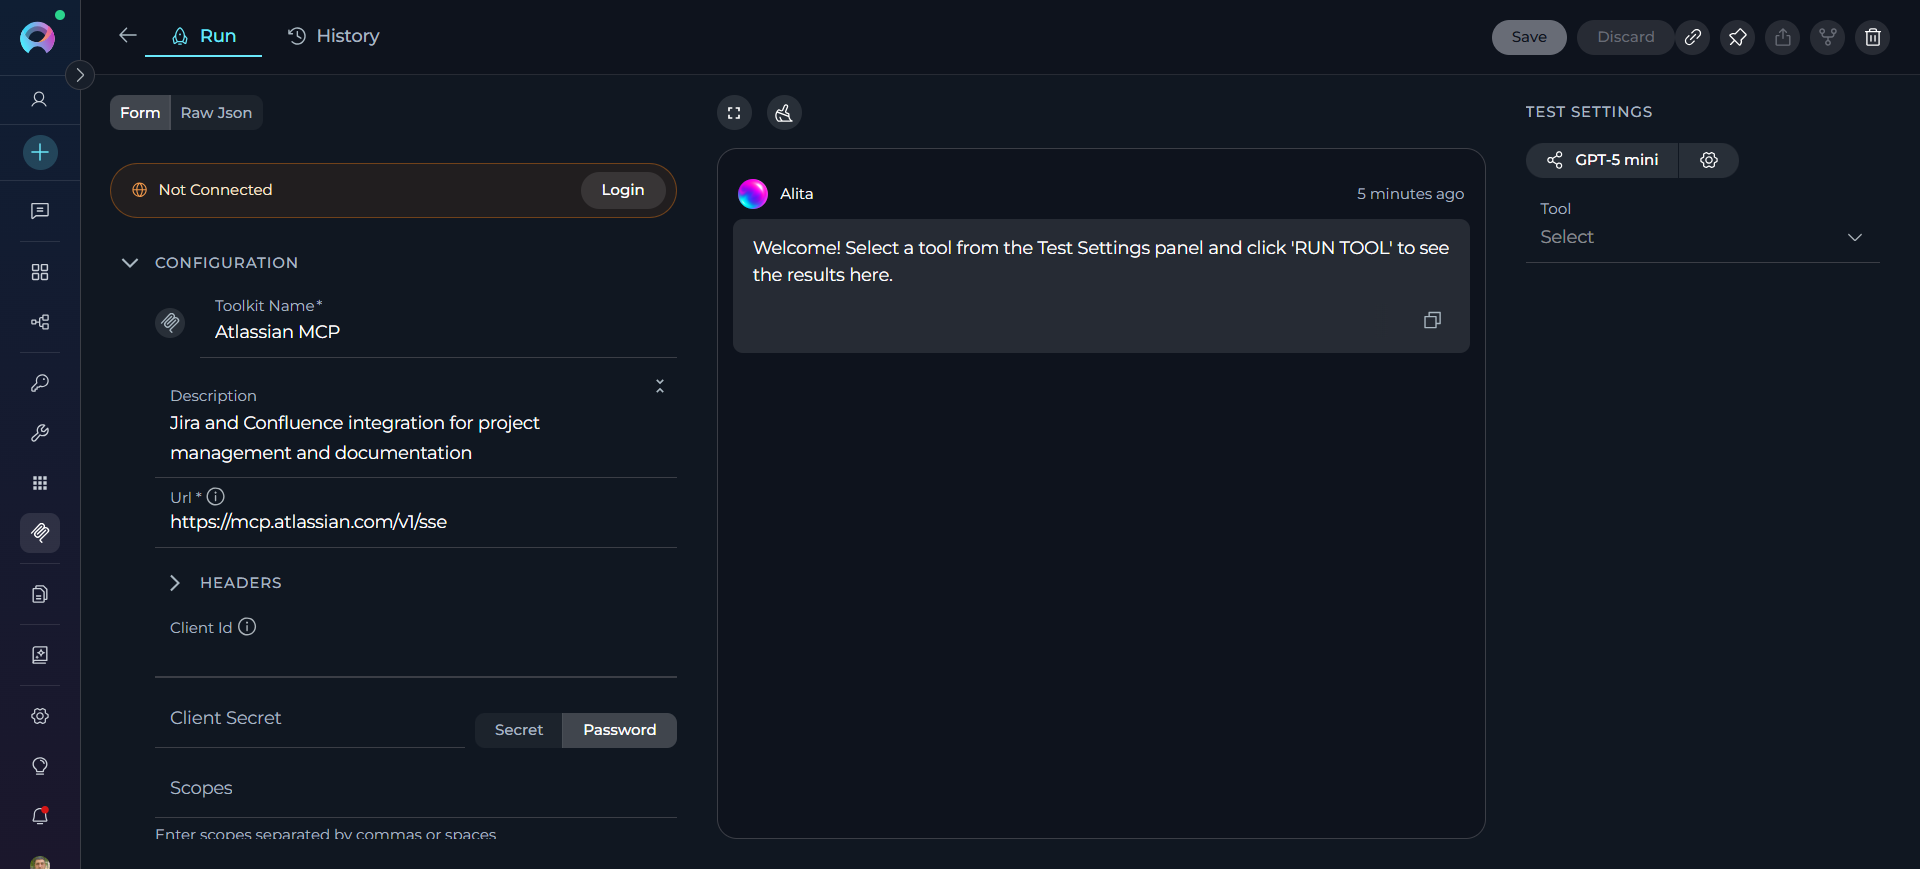
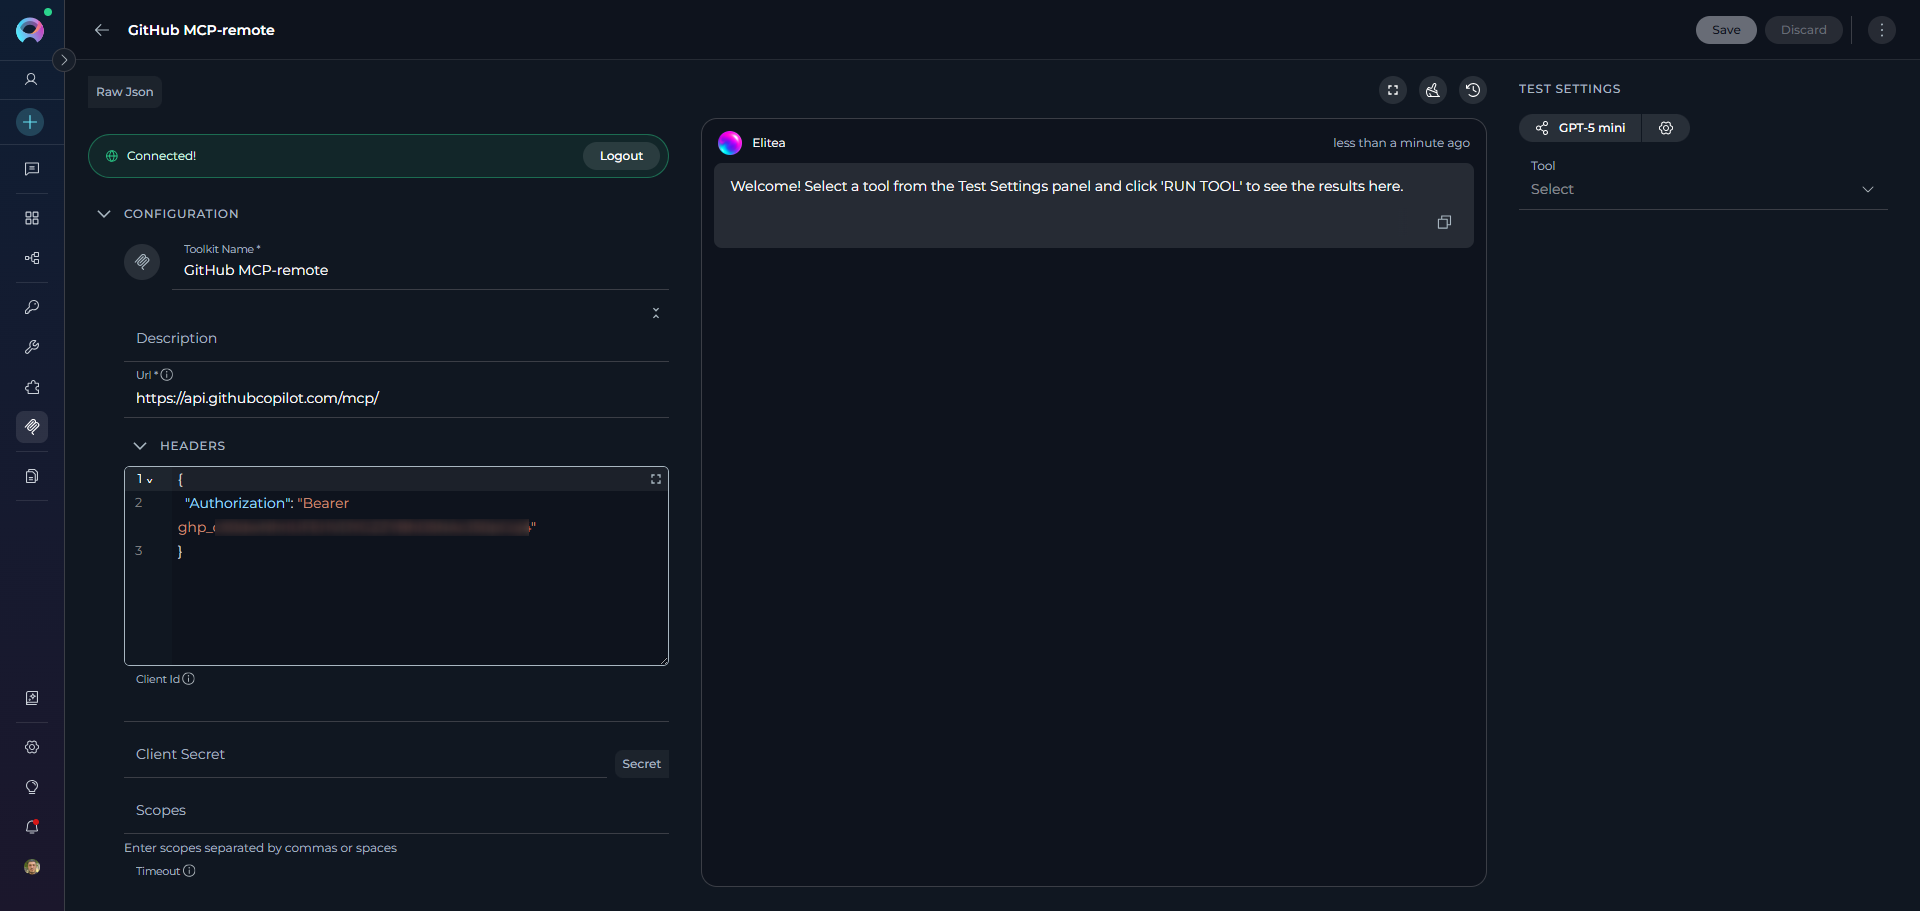
Update MCPs Menu guige

diff --git a/docs/menus/mcps.md b/docs/menus/mcps.md
@@ -62,7 +62,7 @@ Pin frequently used MCPs to keep them at the top of your list for quick access:
 3. Pinned MCPs will appear at the top of the list, separated from unpinned ones
 4. Click the pin icon again to unpin the MCP
 
-![MCP Pin](../img/menus/mcps/mcp-pin.gif){loading=lazy}
+     ![MCP Pin](../img/menus/mcps/mcp-pin.gif){loading=lazy}
 
 
 **MCP Connection States**
@@ -71,11 +71,11 @@ MCPs display their current connection status:
 
 * **Connected** (Grey) - Active connection; tools are available for use
 
-![Connected](../img/menus/mcps/connected.png){width="250"}
+     ![Connected](../img/menus/mcps/connected.png){width="250"}
 
 * **Disconnected** (Orange) - MCP exists but cannot reach server; tools unavailable
 
-![Disconnected](../img/menus/mcps/disconnected.png){width="250"}
+     ![Disconnected](../img/menus/mcps/disconnected.png){width="250"}
 ---
 
 ## MCP Types
@@ -172,15 +172,18 @@ Remote MCPs connect to external MCP servers over HTTP/HTTPS. They are ideal for 
 
 ## Managing MCP Configuration
 
-After creating an MCP, you can view and edit its configuration by clicking on the MCP card in the dashboard. The MCP detail page provides two main tabs for managing different aspects of your MCP:
+After creating an MCP, you can view and edit its configuration by clicking on the MCP card in the dashboard. This opens the **MCP configuration page**.
 
-### Run Tab
+### MCP Configuration Page
 
-The **Run Tab** is where you configure the MCP's connection settings and manage enabled tools.
+The MCP configuration page is where you configure connection settings, manage enabled tools, and test MCP functionality in real-time. It uses a **two-column layout**:
+
+- **Left panel** — the configuration form (name, description, connection settings, tool selection)
+- **Right panel** — the **Test Settings** panel for running tools interactively, with a **View run history** (🕐 clock icon) in the top bar (see [Viewing MCP History](#viewing-mcp-history))
 
 ![MCP Run Tab](../img/menus/mcps/mcp-run-tab.png){loading=lazy}
 
-**What You Can Do on the Run Tab:**
+**What You Can Do on the MCP Configuration Page:**
 
 * **Edit MCP Details:** Update the name and description
 * **Manage Tool Selection:** Configure which specific tools are enabled for this MCP. In the "Tools" section, select only the tools your agents will use. Enabling only necessary tools improves security (principle of least privilege) and optimizes performance
@@ -206,37 +209,44 @@ When selecting tools for your MCP:
 
 #### Testing MCP Functionality
 
-The MCP configuration page includes a **Test Settings** panel on the right side that allows you to test MCP functionality in real-time. For comprehensive testing instructions and best practices, see [How to Test Toolkit Tools](../how-tos/credentials-toolkits/how-to-test-toolkit-tools.md).
+The **right panel** of the MCP configuration page contains the **Test Settings** area, which lets you test MCP functionality in real-time without leaving the page. The top bar of the Test Settings panel includes a **View run history** (🕐 clock icon) — click it to open the Run History panel. See [Viewing MCP History](#viewing-mcp-history) for details.
+
+For comprehensive testing instructions and best practices, see [How to Test Toolkit Tools](../how-tos/credentials-toolkits/how-to-test-toolkit-tools.md).
 
 **Steps to Test an MCP:**
 
-1. **Select a Model:** Choose the LLM model from the model dropdown (e.g., `gpt-4o`).
+1. **Select a Model:** Choose the LLM model from the model dropdown (e.g., `GPT-5.1`).
+
+     ![Select a Model](../img/menus/mcps/mcp-model-select.gif)
 
 2. **Adjust Model Settings** (Optional): Click the **Model Settings** icon (⚙) next to the model selector to fine-tune the response generation. The settings vary depending on the selected model:
-    
+
     **For Reasoning Models** (e.g., GPT-5.1):
-    
-    * **Reasoning** - Controls the depth of logical thinking and problem-solving with three levels:
-        * **Low**: Fast, surface-level reasoning with concise answers and minimal steps
-        * **Medium**: Balanced reasoning with clear explanations and moderate multi-step thinking (default)
-        * **High**: Deep, thorough reasoning with detailed step-by-step analysis (may be slower)
-    
+
+    | Setting | Level | Description |
+    |---------|-------|-------------|
+    | **Reasoning** | Low | Fast, surface-level reasoning with concise answers and minimal steps |
+    | | Medium *(default)* | Balanced reasoning with clear explanations and moderate multi-step thinking |
+    | | High | Deep, thorough reasoning with detailed step-by-step analysis (may be slower) |
+
     **For Standard Models** (e.g., GPT-4o):
-    
-    * **Creativity** - Controls response randomness and creativity. Lower values produce more focused and deterministic outputs, while higher values generate more diverse and creative responses with five levels (1-5):
-        * **1**: Highly focused and deterministic outputs
-        * **2**: Mostly focused with slight variation
-        * **3**: Balanced between focus and creativity (default)
-        * **4**: More varied and creative responses
-        * **5**: Maximum creativity and diversity
-    
-    **Max Completion Tokens** - Limits the maximum length of AI responses measured in tokens (roughly 4 characters per token) (All Models):
-    
-    * **Auto** (default): System automatically sets the token limit to 4096 tokens
-    * **Custom**: Manually set a specific token limit for responses
-        * When Custom is selected, you can enter a specific number of maximum tokens
-        * The interface shows remaining tokens available after your specified limit
-        * Setting too high a value will show an error if it exceeds the model's maximum output tokens
+
+    | Setting | Level | Description |
+    |---------|-------|-------------|
+    | **Creativity** | 1 | Highly focused and deterministic outputs |
+    | | 2 | Mostly focused with slight variation |
+    | | 3 *(default)* | Balanced between focus and creativity |
+    | | 4 | More varied and creative responses |
+    | | 5 | Maximum creativity and diversity |
+
+    **All Models:**
+
+    | Setting | Option | Description |
+    |---------|--------|-------------|
+    | **Max Completion Tokens** | Auto *(default)* | System automatically sets the token limit to 4096 tokens |
+    | | Custom | Manually set a specific token limit; interface shows remaining tokens available. An error is shown if the value exceeds the model's maximum output tokens |
+
+     ![Settings](../img/menus/mcps/mcp-model-settings.gif)
 
 3. **Select Tool:** Use the **Tool** dropdown to choose which MCP tool you want to test.
     * **Search functionality:** Type in the search box to filter available tools
@@ -245,22 +255,37 @@ The MCP configuration page includes a **Test Settings** panel on the right side 
 
 4. **Execute the tool:** Click the **RUN TOOL** button and review the results in the output area. `(The RUN TOOL button appears after selecting a tool.)`
 
-![MCP History Tab](../img/menus/mcps/test-mcp-tools.gif){loading=lazy}
+     ![MCP Test Tools](../img/menus/mcps/test-mcp-tools.gif){loading=lazy}
 
-### History Tab
+### Viewing MCP History
 
-The **History** tab provides a comprehensive log of all operations and activities performed with the MCP.
-For detailed instructions on using the History tab, see [Toolkits History Tab Guide](../how-tos/credentials-toolkits/toolkit_history_tab.md).
+The **Run History** panel provides a complete audit trail of all past test executions performed in the MCP's Test Settings panel.
 
-**Using the History Tab**
+**How to access Run History:**
 
-The History tab allows you to:
+1. Open any saved MCP.
+2. In the **right panel** of the MCP configuration page (Test Settings area), click the **clock icon** (🕐) in the top bar. The tooltip reads *"View run history"*.
+3. The MCP page is replaced by the two-panel Run History display. Click the **✕ (Close)** button to return to the configuration page.
 
-* **View operation history:** Track MCP operations and their status
-* **Monitor MCP usage:** Review when and how the MCP has been used
-* **Track changes:** See configuration changes and updates made to the MCP
-* **Troubleshoot issues:** Analyze past operations to identify and resolve problems
-* **Audit trail:** Maintain a record of MCP activities for compliance and review purposes
+**Run History layout:**
+
+The Run History panel uses a two-panel layout:
+
+- **Left panel** — sortable list of all past test runs. Click any column header to sort:
+
+    | Column | Description |
+    |--------|-------------|
+    | **Date** | Timestamp of the run in `dd-MM-yyyy, hh:mm a` format |
+    | **Duration** | Total execution time of the run |
+
+    Click a row to load the conversation replay in the right panel. Each row also has a **three-dot menu (⋮)** with: **Share link**, **Delete**.
+
+- **Right panel** — full conversation replay of the selected test run.
+
+     ![History](../img/menus/mcps/mcp-view-history.gif)
+
+!!! info "Learn More About History"
+    For detailed instructions on using the History panel, see the **[Toolkit History Tab Guide](../how-tos/credentials-toolkits/toolkit_history_tab.md)**.
 
 ---
 
@@ -304,14 +329,14 @@ Following these best practices ensures optimal MCP performance, security, and ma
     **How to apply:**
     
     * Review all enabled tools when creating or editing an MCP
-    * Disable unused tools in the Run Tab → Tool Management section
+    * Disable unused tools in the MCP configuration page → Tool Management section
     * Periodically audit agent/pipeline tool usage and remove unnecessary MCPs
     
     **Benefits:**
     
     * Faster agent decision-making (fewer tools to evaluate)
     * Reduced risk of unintended tool invocations
-    * Clearer audit trails in History Tab
+    * Clearer audit trails in Run History
 
 ??? tip "Use Clear and Consistent Naming"
     **Naming Convention:** Use descriptive names that clearly identify the MCP's purpose, environment, or scope. Avoid generic names like "MCP 1" or "Test Server".
